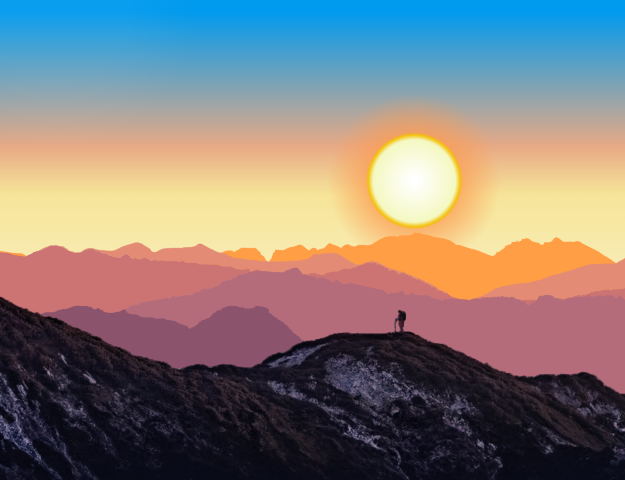
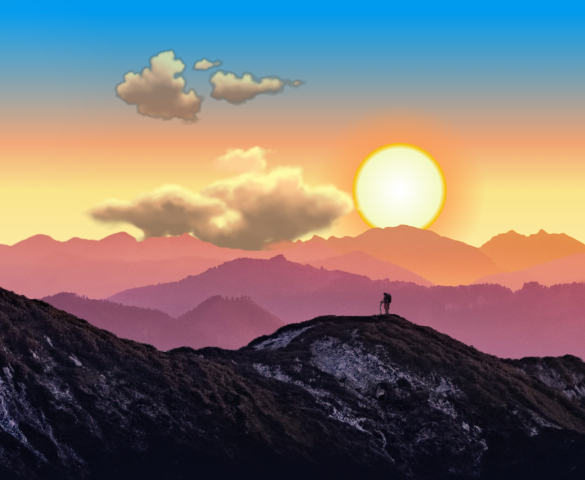
sunset fixed

diff --git a/components/SunSky.jsx b/components/SunSky.jsx
@@ -4,9 +4,9 @@ import { motion, useTransform } from 'framer-motion';
 import { FaAngleDoubleDown } from 'react-icons/fa';
 
 const SunSky = ({ scrollYProgress, opacitySun }) => {
-    const top = useTransform(scrollYProgress, [0, 1], ["0", "80vh"]);
+    const top = useTransform(scrollYProgress, [0, 1], ["0", "20vh"]);
     const backgroundImage = useTransform(scrollYProgress, [0, 0.3, 0.5, 0.7, 0.9], [
-      "linear-gradient(rgb(0, 154, 238) 2%, rgb(0, 154, 238) 4%, rgb(123, 217, 246) 40%, rgb(208, 239, 255) 50% rgb(255, 255, 255))",
+      "linear-gradient(rgb(100, 154, 238) 3%, rgb(120, 200, 250) 10%, rgb(180, 200, 250) 20%, rgb(255, 178, 59) 40%, rgb(255, 178, 170) 45%)",
       "linear-gradient(rgb(0, 154, 238) 2%, rgb(0, 154, 238) 4%, rgb(252, 156, 84) 30%, rgb(255, 227, 115) 40%, rgb(255, 222552, 255))",  
       "linear-gradient(rgb(75, 61, 96) 10%, rgb(253, 94, 83) 40%, rgb(252, 156, 84) 80%, rgb(255, 227, 115) 90%, rgb(255, 227, 115))",
       "linear-gradient(rgb(21, 40, 82) 10%, rgb(75, 61, 96) 30%, rgb(75, 61, 96) 50%, rgb(75, 61, 96) 70%, rgb(75, 61, 96))",
@@ -19,7 +19,7 @@ const SunSky = ({ scrollYProgress, opacitySun }) => {
     <motion.div style={{ opacity: opacitySun }}>
       <motion.div 
         initial={{ y: -400 }}
-        animate={{ y: 0 }}
+        animate={{ y: 300 }}
         transition={{ ease: "easeOut", duration: 2 }}
         className='sun_glare'
         style={{ top }}
@@ -28,7 +28,7 @@ const SunSky = ({ scrollYProgress, opacitySun }) => {
       </motion.div>
       <motion.div
         initial={{ backgroundImage: `linear-gradient(rgb(90, 222, 255) 5%, rgb(90, 222, 255) 10%, rgb(255, 255, 255) 70%, rgb(255, 255, 255) 70%, rgb(255, 255, 255))`}}
-        animate={{ backgroundImage: "linear-gradient(rgb(0, 154, 238) 2%, rgb(132, 170, 183) 40%, rgb(255, 255, 255) 80%, rgb(255, 227, 115) 90%, rgb(255, 227, 115))" }}
+        animate={{ backgroundImage: "linear-gradient(rgb(100, 154, 238) 5%, rgb(184, 241, 255) 15%, rgb(208, 239, 255) 20%, rgb(255, 171, 67) 40%, rgb(255, 171, 67))" }}
         style={{ backgroundImage }}
         transition={{ ease: "easeOut", duration: 2 }}
         className='landing'

diff --git a/components/Mountains.jsx b/components/Mountains.jsx
@@ -12,7 +12,7 @@ const Mountains = ({ scrollYProgress, targetRef, opacity }) => {
   return (
     <motion.section className='mountain_div' ref={targetRef} style={{ opacity }}>
       <motion.img
-        src='/background/bg_1.svg'
+        src='/background/bg_1.png'
         alt='mountains'
         className='bg_1 mountains'
         style={{ bottom: bottom1, filter: brightness }}
@@ -21,19 +21,19 @@ const Mountains = ({ scrollYProgress, targetRef, opacity }) => {
         transition={{ ease: "easeOut", duration: 2 }}
       />
       <motion.img
-        src='/background/bg_2.svg'
+        src='/background/bg_2.png'
         alt='mountains'
         className='bg_2 mountains'
-        style={{ bottom: bottom2, filter: brightness }}
+        style={{ bottom: bottom2, filter: brightness, filter: "blur(1px)" }}
         initial={{ bottom: "-40vh" }}
         animate={{ bottom: "-20vh" }}
         transition={{ ease: "easeOut", duration: 2 }}
       />
       <motion.img
-        src='/background/bg_3.svg'
+        src='/background/bg_3.png'
         alt='mountains'
         className='bg_3 mountains'
-        style={{ bottom: bottom3, filter: brightness }}
+        style={{ bottom: bottom3, filter: brightness, filter: "contrast(120%)"  }}
         initial={{ bottom: "-45vh" }}
         animate={{ bottom: "-15vh" }}
         transition={{ ease: "easeOut", duration: 2 }}

diff --git a/app/globals.css b/app/globals.css
@@ -138,6 +138,7 @@ h3{
 
 .bg_1 {
   z-index: 0;
+  filter: blur(50px);
 }
 .bg_2 {
   z-index: 1;
